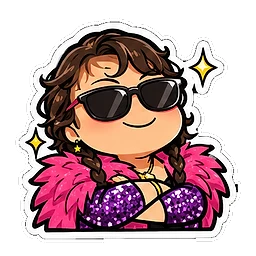
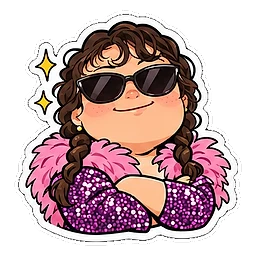
Cécile : nouvelle planche Star (liserés épais), découpe standard

diff --git a/tools/slice-chibis/README.md b/tools/slice-chibis/README.md
@@ -47,4 +47,4 @@ Le script avertit si la tenue d'une planche est absente de `src/data/tenues.ts`.
 ## Planches récalcitrantes : `closed-sheet.mjs`
 
 Quand `free-sheet.mjs` rate une planche 4×3 sur fond noir (liserés blancs ouverts : le fond « fuit » dans le dessin ; stickers soudés), même en `split: 'grid'` :
-`node tools/slice-chibis/closed-sheet.mjs <planche.png> <slug> <dossier> [--preview]`. Le liseré blanc est refermé avant d'enlever le fond, les blocs soudés sont coupés à la ligne la plus fine, puis les poches de fond enfermées et les éclats sont retirés. Ordre fixe V3 (joie … champion). Retirer ensuite la planche de la config pour qu'un `free-sheet` ne l'écrase pas (ex. Cécile Star).
+`node tools/slice-chibis/closed-sheet.mjs <planche.png> <slug> <dossier> [--preview]`. Le liseré blanc est refermé avant d'enlever le fond, les blocs soudés sont coupés à la ligne la plus fine, puis les poches de fond enfermées et les éclats sont retirés. Ordre fixe V3 (joie … champion). Retirer ensuite la planche de la config pour qu'un `free-sheet` ne l'écrase pas (cas déjà rencontré : 1re version de la Star de Cécile, finalement régénérée avec des liserés épais — souvent la meilleure solution).
